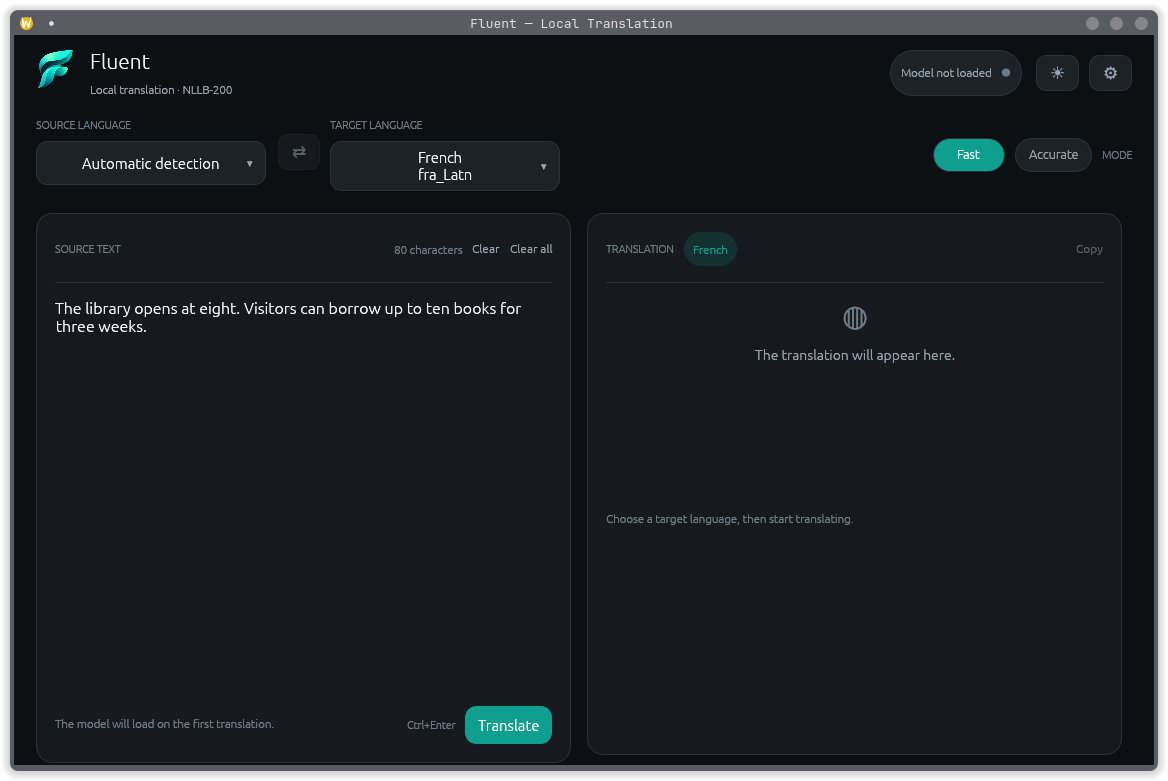
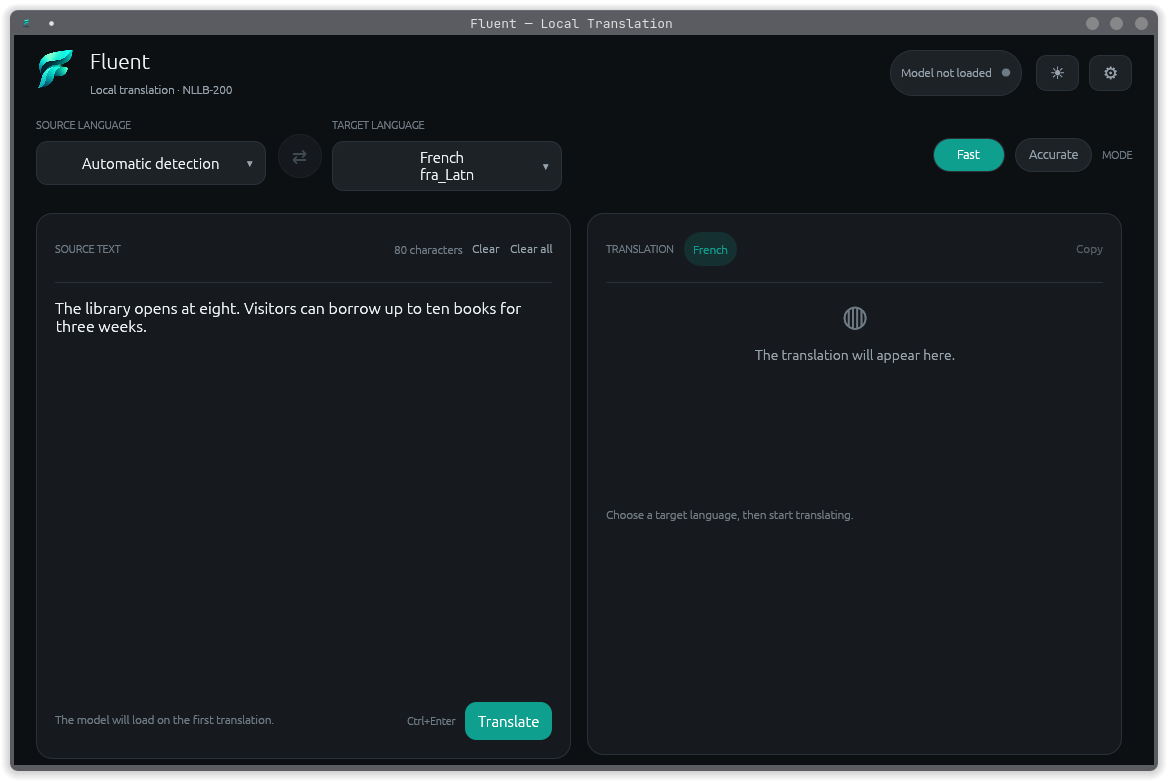
fix(gui): refine settings and editor panel layout
Aligns the Settings page with a two-column model selector, a single
Device/Precision grid, equal theme buttons, truncated long paths and more
usable scroll space. Removes the leftover duplicate Precision control.

Gives the source and translation cards matching header/footer metrics and
text-area heights, replaces the small misaligned swap glyph with one 44px
circular control, and makes the model status chip exactly the same height as
the header icon buttons.

Captures the real running interface in dark, settings, picker and light
views; replaces the stale preview with the current dark screenshot.

diff --git a/crates/fluent-gui/src/app.rs b/crates/fluent-gui/src/app.rs
@@ -386,6 +386,9 @@ impl FluentApp {
             .corner_radius(egui::CornerRadius::same(255))
             .inner_margin(egui::Margin::symmetric(10, 5))
             .show(ui, |ui| {
+                // The frame's 5px vertical margins plus this 22px content
+                // make the chip 34px tall, matching icon_button.
+                ui.set_min_height(22.0);
                 ui.horizontal(|ui| {
                     widgets::status_dot(ui, color);
                     ui.label(egui::RichText::new(label).size(11.5).color(palette.muted));
@@ -437,15 +440,25 @@ impl FluentApp {
                 ui.add_space(15.0);
                 let enabled = swap_enabled(&self.settings.source_language);
                 let tooltip = if enabled {
-                    "Swap languages"
+                    "Swap source and target languages"
                 } else {
                     "Choose a specific source language to swap"
                 };
-                let mut clicked = false;
-                ui.add_enabled_ui(enabled, |ui| {
-                    clicked = widgets::icon_button(ui, &palette, "⇄", tooltip).clicked();
-                });
-                if clicked {
+                let color = if enabled {
+                    palette.accent
+                } else {
+                    palette.faint
+                };
+                let swap = egui::Button::new(egui::RichText::new("⇄").size(18.0).color(color))
+                    .fill(palette.card_alt)
+                    .stroke(egui::Stroke::new(1.0, palette.border))
+                    .corner_radius(egui::CornerRadius::same(255))
+                    .min_size(egui::vec2(44.0, 44.0));
+                if ui
+                    .add_enabled(enabled, swap)
+                    .on_hover_text(tooltip)
+                    .clicked()
+                {
                     self.swap_languages();
                 }
             });
@@ -555,6 +568,7 @@ impl FluentApp {
             ));
 
             ui.horizontal(|ui| {
+                ui.set_min_height(22.0);
                 widgets::section_label(ui, &palette, "Source text");
                 ui.with_layout(egui::Layout::right_to_left(egui::Align::Center), |ui| {
                     let count = self.source_text.chars().count();
@@ -594,8 +608,10 @@ impl FluentApp {
             });
             widgets::divider(ui, &palette);
 
-            let footer_height = if self.busy { 58.0 } else { 44.0 };
-            let text_height = (ui.available_height() - footer_height).max(90.0);
+            let footer_height = if self.busy { 64.0 } else { 44.0 };
+            // Both cards reserve the same footer and 4px gap, so their text
+            // areas have the same effective height at every window size.
+            let text_height = (ui.available_height() - footer_height - 4.0).max(90.0);
             // Make the editor grow with its content inside a scroll area, instead of
             // clipping the text when it exceeds the card height.
             let font = egui::FontId::proportional(16.0);
@@ -704,6 +720,7 @@ impl FluentApp {
             ));
 
             ui.horizontal(|ui| {
+                ui.set_min_height(22.0);
                 widgets::section_label(ui, &palette, "Translation");
                 if let Some(language) = find_language(&self.settings.target_language) {
                     widgets::badge(ui, &palette, language.name, palette.accent);
@@ -736,8 +753,8 @@ impl FluentApp {
             });
             widgets::divider(ui, &palette);
 
-            let footer_height = if self.busy { 64.0 } else { 40.0 };
-            let text_height = (ui.available_height() - footer_height).max(90.0);
+            let footer_height = if self.busy { 64.0 } else { 44.0 };
+            let text_height = (ui.available_height() - footer_height - 4.0).max(90.0);
             let body = self.result.as_ref().map(|result| result.text.as_str());
             let shown = if self.busy {
                 self.preview.trim()
@@ -894,7 +911,7 @@ impl FluentApp {
         let response = egui::Modal::new(egui::Id::unique("fluent_settings"))
             .frame(frame)
             .show(ctx, |ui| {
-                ui.set_width(560.0);
+                ui.set_width(600.0);
                 ui.set_max_height(ctx.content_rect().height() * 0.86);
 
                 ui.horizontal(|ui| {
@@ -923,13 +940,15 @@ impl FluentApp {
 
                 egui::ScrollArea::vertical()
                     .auto_shrink([false, false])
-                    .max_height(ctx.content_rect().height() * 0.62)
+                    .max_height(ctx.content_rect().height() * 0.66)
                     .show(ui, |ui| {
                         widgets::section_label(ui, &palette, "Translation model");
                         ui.add_space(6.0);
-                        ui.horizontal(|ui| {
-                            let mut selected_mode = self.settings.mode;
-                            for mode in [Mode::Fast, Mode::Accurate] {
+                        let mut selected_mode = self.settings.mode;
+                        ui.columns(2, |columns| {
+                            for (ui, mode) in
+                                columns.iter_mut().zip([Mode::Fast, Mode::Accurate])
+                            {
                                 let selected = self.settings.mode == mode;
                                 let fill = if selected {
                                     palette.accent_soft
@@ -944,9 +963,10 @@ impl FluentApp {
                                     .fill(fill)
                                     .stroke(stroke)
                                     .corner_radius(egui::CornerRadius::same(12))
-                                    .inner_margin(egui::Margin::same(12))
+                                    .inner_margin(egui::Margin::same(14))
                                     .show(ui, |ui| {
-                                        ui.set_min_width(230.0);
+                                        ui.set_min_width(ui.available_width());
+                                        ui.set_min_height(64.0);
                                         ui.label(
                                             egui::RichText::new(mode.model_label())
                                                 .size(14.0)
@@ -977,8 +997,8 @@ impl FluentApp {
                                     selected_mode = mode;
                                 }
                             }
-                            self.settings.mode = selected_mode;
                         });
+                        self.settings.mode = selected_mode;
 
                         ui.add_space(8.0);
                         let model_dir = self.project.model_path(self.settings.mode);
@@ -988,11 +1008,14 @@ impl FluentApp {
                                     .size(12.0)
                                     .color(palette.muted),
                             );
-                            ui.label(
-                                egui::RichText::new(model_dir.display().to_string())
-                                    .monospace()
-                                    .size(11.0)
-                                    .color(palette.faint),
+                            ui.add(
+                                egui::Label::new(
+                                    egui::RichText::new(model_dir.display().to_string())
+                                        .monospace()
+                                        .size(11.0)
+                                        .color(palette.faint),
+                                )
+                                .truncate(),
                             );
                         });
 
@@ -1055,37 +1078,76 @@ impl FluentApp {
                         }
 
                         ui.add_space(10.0);
-                        ui.horizontal(|ui| {
-                            ui.label(
-                                egui::RichText::new("Device")
-                                    .size(13.0)
-                                    .color(palette.text),
-                            );
-                            ui.with_layout(
-                                egui::Layout::right_to_left(egui::Align::Center),
-                                |ui| {
-                                    let current = self.settings.device_choice();
-                                    egui::ComboBox::from_id_salt("device_combo")
-                                        .selected_text(current.label())
-                                        .width(230.0)
-                                        .show_ui(ui, |ui| {
-                                            for choice in [
-                                                DeviceChoice::Auto,
-                                                DeviceChoice::Cpu,
-                                                DeviceChoice::Cuda(0),
-                                                DeviceChoice::Metal(0),
-                                            ] {
-                                                if ui
-                                                    .selectable_label(current == choice, choice.label())
-                                                    .clicked()
-                                                {
-                                                    self.settings.set_device(choice);
+                        egui::Grid::new("settings_device_precision")
+                            .num_columns(2)
+                            .spacing([16.0, 8.0])
+                            .show(ui, |ui| {
+                                ui.label(
+                                    egui::RichText::new("Device")
+                                        .size(13.0)
+                                        .color(palette.text),
+                                );
+                                ui.with_layout(
+                                    egui::Layout::right_to_left(egui::Align::Center),
+                                    |ui| {
+                                        let current = self.settings.device_choice();
+                                        egui::ComboBox::from_id_salt("device_combo")
+                                            .selected_text(current.label())
+                                            .width(230.0)
+                                            .show_ui(ui, |ui| {
+                                                for choice in [
+                                                    DeviceChoice::Auto,
+                                                    DeviceChoice::Cpu,
+                                                    DeviceChoice::Cuda(0),
+                                                    DeviceChoice::Metal(0),
+                                                ] {
+                                                    if ui
+                                                        .selectable_label(
+                                                            current == choice,
+                                                            choice.label(),
+                                                        )
+                                                        .clicked()
+                                                    {
+                                                        self.settings.set_device(choice);
+                                                    }
                                                 }
-                                            }
-                                        });
-                                },
-                            );
-                        });
+                                            });
+                                    },
+                                );
+                                ui.end_row();
+
+                                ui.label(
+                                    egui::RichText::new("Precision")
+                                        .size(13.0)
+                                        .color(palette.text),
+                                );
+                                ui.with_layout(
+                                    egui::Layout::right_to_left(egui::Align::Center),
+                                    |ui| {
+                                        egui::ComboBox::from_id_salt("precision_combo")
+                                            .selected_text(self.settings.precision.label())
+                                            .width(230.0)
+                                            .show_ui(ui, |ui| {
+                                                for precision in [
+                                                    Precision::Auto,
+                                                    Precision::F32,
+                                                    Precision::F16,
+                                                ] {
+                                                    if ui
+                                                        .selectable_label(
+                                                            self.settings.precision == precision,
+                                                            precision.label(),
+                                                        )
+                                                        .clicked()
+                                                    {
+                                                        self.settings.precision = precision;
+                                                    }
+                                                }
+                                            });
+                                    },
+                                );
+                                ui.end_row();
+                            });
                         widgets::hint(
                             ui,
                             &palette,
@@ -1095,38 +1157,6 @@ impl FluentApp {
                                 "CUDA / Metal require a dedicated build (--features cuda or metal)."
                             },
                         );
-
-                        ui.add_space(6.0);
-                        ui.horizontal(|ui| {
-                            ui.label(
-                                egui::RichText::new("Precision")
-                                    .size(13.0)
-                                    .color(palette.text),
-                            );
-                            ui.with_layout(
-                                egui::Layout::right_to_left(egui::Align::Center),
-                                |ui| {
-                                    egui::ComboBox::from_id_salt("precision_combo")
-                                        .selected_text(self.settings.precision.label())
-                                        .width(230.0)
-                                        .show_ui(ui, |ui| {
-                                            for precision in
-                                                [Precision::Auto, Precision::F32, Precision::F16]
-                                            {
-                                                if ui
-                                                    .selectable_label(
-                                                        self.settings.precision == precision,
-                                                        precision.label(),
-                                                    )
-                                                    .clicked()
-                                                {
-                                                    self.settings.precision = precision;
-                                                }
-                                            }
-                                        });
-                                },
-                            );
-                        });
 
                         ui.add_space(8.0);
                         ui.add(
@@ -1170,7 +1200,8 @@ impl FluentApp {
                                     palette.card_alt
                                 })
                                 .stroke(egui::Stroke::new(1.0, palette.border))
-                                .corner_radius(egui::CornerRadius::same(9));
+                                .corner_radius(egui::CornerRadius::same(9))
+                                .min_size(egui::vec2(100.0, 30.0));
                                 if ui.add(button).clicked() {
                                     self.settings.theme = choice;
                                 }
@@ -1210,7 +1241,8 @@ impl FluentApp {
                         ui.add_space(4.0);
                         ui.label(
                             egui::RichText::new(format!(
-                                "Fluent 0.1.0 · {} {} · NLLB-200 engine in Rust",
+                                "Fluent {} · {} {} · NLLB-200 engine in Rust",
+                                env!("CARGO_PKG_VERSION"),
                                 std::env::consts::OS,
                                 std::env::consts::ARCH
                             ))
@@ -1226,11 +1258,17 @@ impl FluentApp {
                             .color(palette.muted),
                         );
                         if let Some(path) = settings_path() {
-                            ui.label(
-                                egui::RichText::new(format!("Settings: {}", path.display()))
+                            ui.add(
+                                egui::Label::new(
+                                    egui::RichText::new(format!(
+                                        "Settings: {}",
+                                        path.display()
+                                    ))
                                     .monospace()
                                     .size(10.5)
                                     .color(palette.faint),
+                                )
+                                .truncate(),
                             );
                         }
                     });

diff --git a/docs/ASSETS.md b/docs/ASSETS.md
@@ -108,7 +108,22 @@ The Windows icon embedding is only exercised when the build script runs on a
 Windows host. Cross-compiling from Linux would need additional resource-tool
 setup and is not claimed.
 
-## 5. Platform output requirements
+## 5. Interface screenshots
+
+Captured from the actual running application on the canonical Linux host:
+
+| View | Path |
+|---|---|
+| Main interface, dark theme | `src/image1.png` |
+| Settings page | `docs/screenshots/settings.png` |
+| Language picker | `docs/screenshots/language-picker.png` |
+| Main interface, light theme | `docs/screenshots/main-light.png` |
+
+The settings screenshot uses a disposable home directory so no user paths or
+private text are exposed. The main preview was captured with neutral sample
+text. These are documentation captures, not mockups.
+
+## 6. Platform output requirements
 
 For a future release:
 
